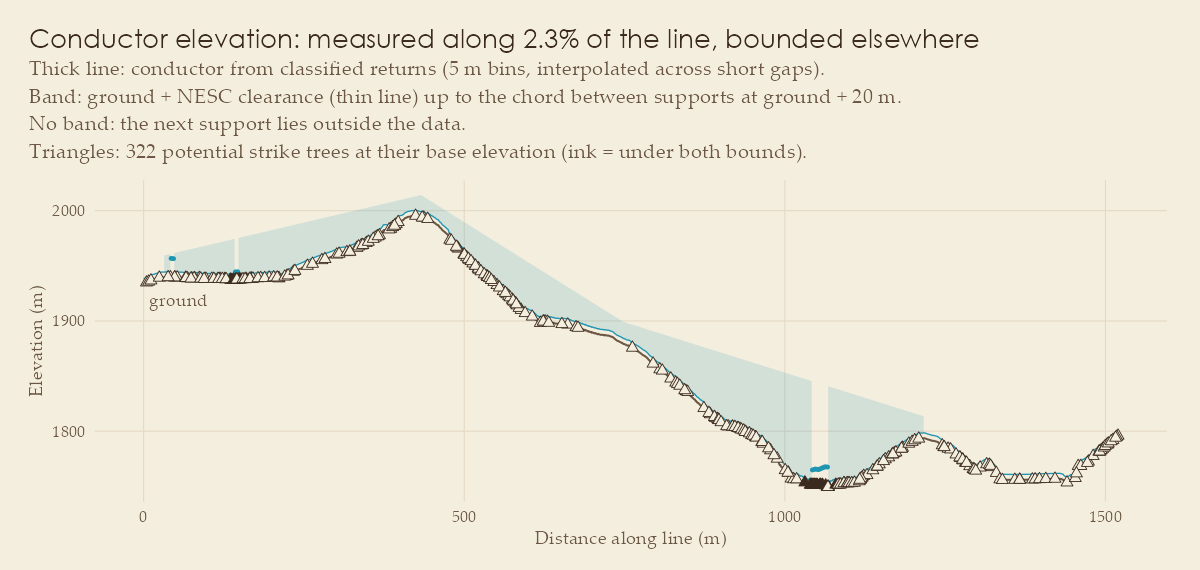
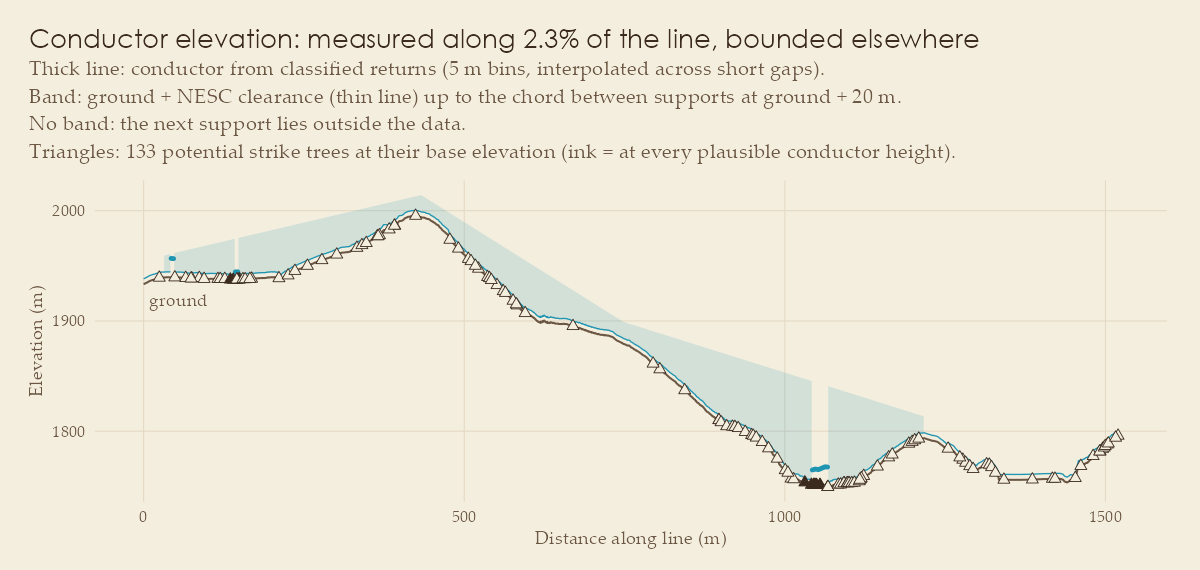
docs: Sunshine numbers after #49-#51; methods and NEWS describe the new rules; shorter strike legend
Sunshine (grow-in zone widened to 14 m, confirmed supports, radial
clearance, bracket strike test): 133 strike trees at some plausible
conductor height and 13 at every plausible height, 44 windward; all 30
segments encroach under the lower bound, 3 under the upper; 20 segments
ranked by Landsat with 3 dry, none of them grow-in candidates.

diff --git a/README.md b/README.md
@@ -17,7 +17,7 @@
 1. **Whether public LiDAR can decide grow-in depends on whether it sampled the conductors.** In Colorado it barely did (2% of the line), so 27 of 30 segments stay undecidable and 3 are robust candidates. In Nashville the 500 kV bundles were sampled end to end, and the same pipeline gives a measured, decisive screen.
 2. **Vendor vegetation classes contain the conductors.** In Nashville, 99.3% of conductor returns are delivered as *high vegetation*. A canopy model built from the delivered classes flags every one of 39 segments as grow-in; with conductor returns removed, none are.
 3. **Random cross-validation on point clouds misleads.** Random folds report a Colorado wire average precision of 0.20; 100 m spatial blocks report 0.005. The Colorado model does not transfer to Nashville.
-4. **Wind direction splits the strike trees in two.** 97% of Colorado fire-weather hours blow from the west, so the 322 potential strike trees divide into 138 windward of the line and 184 leeward, and the top grow-in candidate also holds the most windward trees.
+4. **Wind direction splits the strike trees in two.** 97% of Colorado fire-weather hours blow from the west, so the 133 potential strike trees divide into 44 windward of the line and 89 leeward, and the top grow-in candidate also holds the most windward trees.
 
 ## Two corridors
 
@@ -27,7 +27,7 @@
 <td width="50%"><img src="man/figures/nashville_conductor_profile.png" alt="West Nashville conductor profile"></td>
 </tr>
 <tr>
-<td valign="top"><b>Sunshine Canyon, Colorado.</b> 115 kV on wood H-frames in the wildland–urban interface, 2.5 km from the 2010 Fourmile Canyon Fire. Conductor bounded, not measured: 3 robust grow-in candidates, 27 undecidable segments, 33–322 strike trees depending on the bound. <a href="https://mjorden.github.io/powerline-veg-risk/articles/sunshine-canyon.html">Case study →</a></td>
+<td valign="top"><b>Sunshine Canyon, Colorado.</b> 115 kV on wood H-frames in the wildland–urban interface, 2.5 km from the 2010 Fourmile Canyon Fire. Conductor bounded, not measured: 3 robust grow-in candidates, 27 undecidable segments, 13–133 strike trees depending on the conductor height. <a href="https://mjorden.github.io/powerline-veg-risk/articles/sunshine-canyon.html">Case study →</a></td>
 <td valign="top"><b>West Nashville, Tennessee.</b> TVA 500 kV on lattice towers, LiDAR in US survey feet with vendor classes to check against. Conductor measured along the whole line: no grow-in, 24 strike trees in 7 segments, 32 segments seen to be clear. <a href="https://mjorden.github.io/powerline-veg-risk/articles/nashville.html">Case study →</a></td>
 </tr>
 </table>

diff --git a/NEWS.md b/NEWS.md
@@ -1,3 +1,9 @@
+# vegrisk (development version)
+
+- Fall-in is tested over the whole conductor bracket, not only at its two bounds: trees carry `reach_min_m`, `strike_possible` and `strike_certain`, and the pessimistic / optimistic tiers use those (#49).
+- Grow-in clearance is radial (horizontal beyond the phase offset, vertical up to the conductor); `assess_risk()` refuses an `under_line_m` narrower than `phase_offset_m + clearance_target_m` and its default is 8 m (#50).
+- `line_supports()` keeps only line vertices that a tagged structure confirms for the upper conductor bound; `conductor_profile()` counts measured bins above the support chord; `taut_upper()` reports an unknown bound past the outermost straddling chord (#51).
+
 # vegrisk 0.1.0
 
 First and closing release of a portfolio project: a segment-by-segment vegetation-risk screen for overhead power lines from public data.
